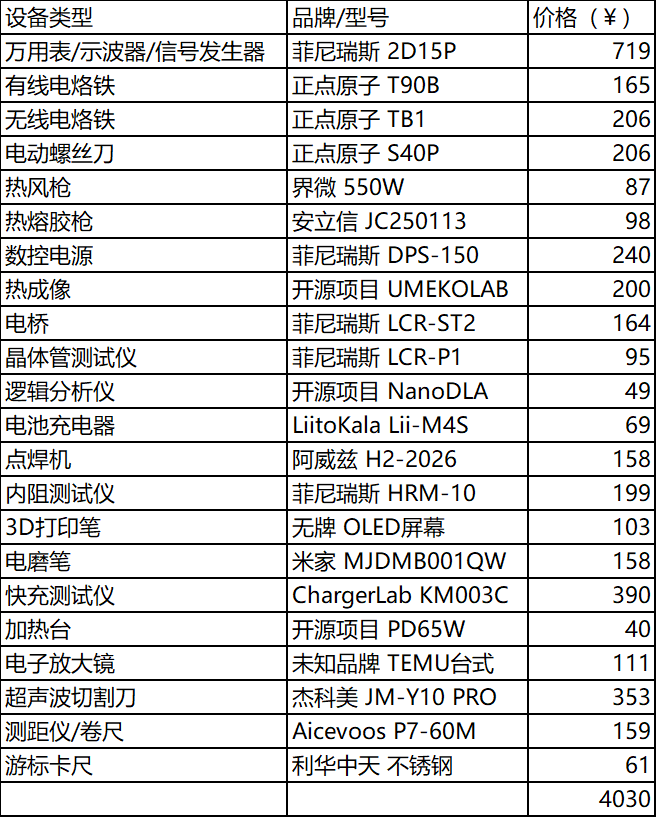
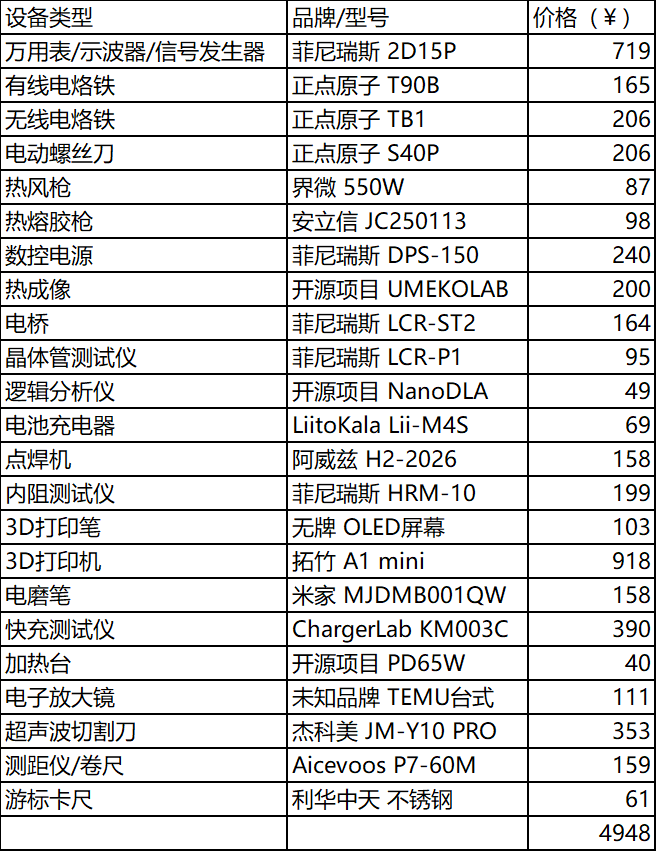
update

diff --git a/_posts/CopyRightZGQInc/2026-03-22-51e79c.md b/_posts/CopyRightZGQInc/2026-03-22-51e79c.md
@@ -39,6 +39,7 @@ toc: true
 | **点焊机** | 阿威兹 H2-2026 | 158 |
 | **内阻测试仪** | 菲尼瑞斯 HRM-10 | 199 |
 | **3D打印笔** | 无牌 OLED屏幕 | 103 |
+| **3D打印机** | 拓竹 A1 mini | 918 |
 | **电磨笔** | 米家 MJDMB001QW | 158 |
 | **快充测试仪** | ChargerLab KM003C | 390 |
 | **加热台** | 开源项目 PD65W | 40 |
@@ -46,4 +47,4 @@ toc: true
 | **超声波切割刀** | 杰科美 JM-Y10 PRO | 353 |
 | **测距仪/卷尺** | Aicevoos P7-60M | 159 |
 | **游标卡尺** | 利华中天 不锈钢 | 61 |
-| **总计** | | **¥ 4030** |
+| **总计** | | **¥ 4948** |
